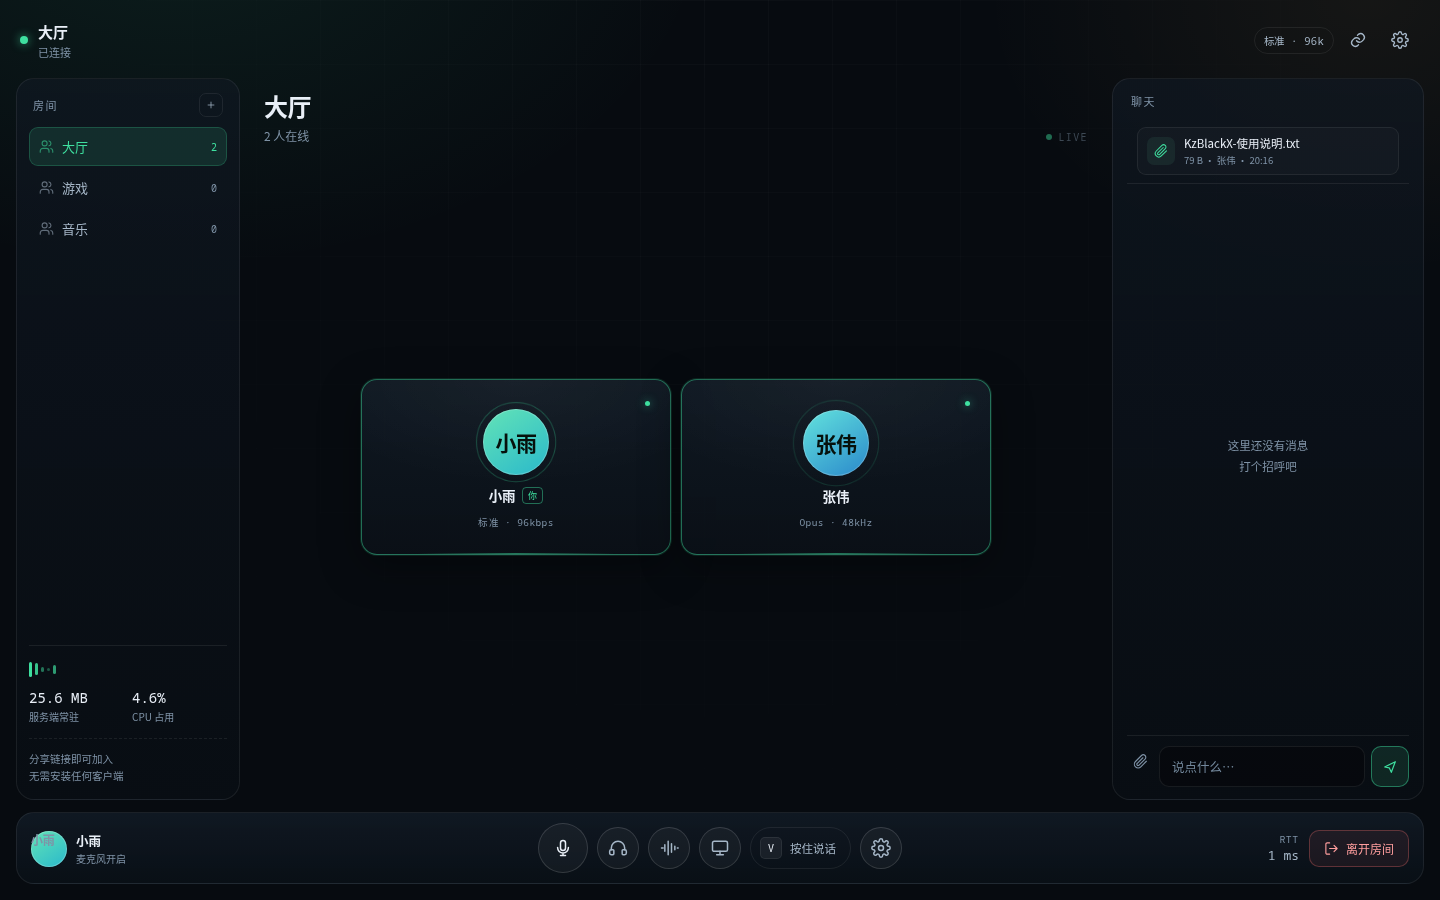
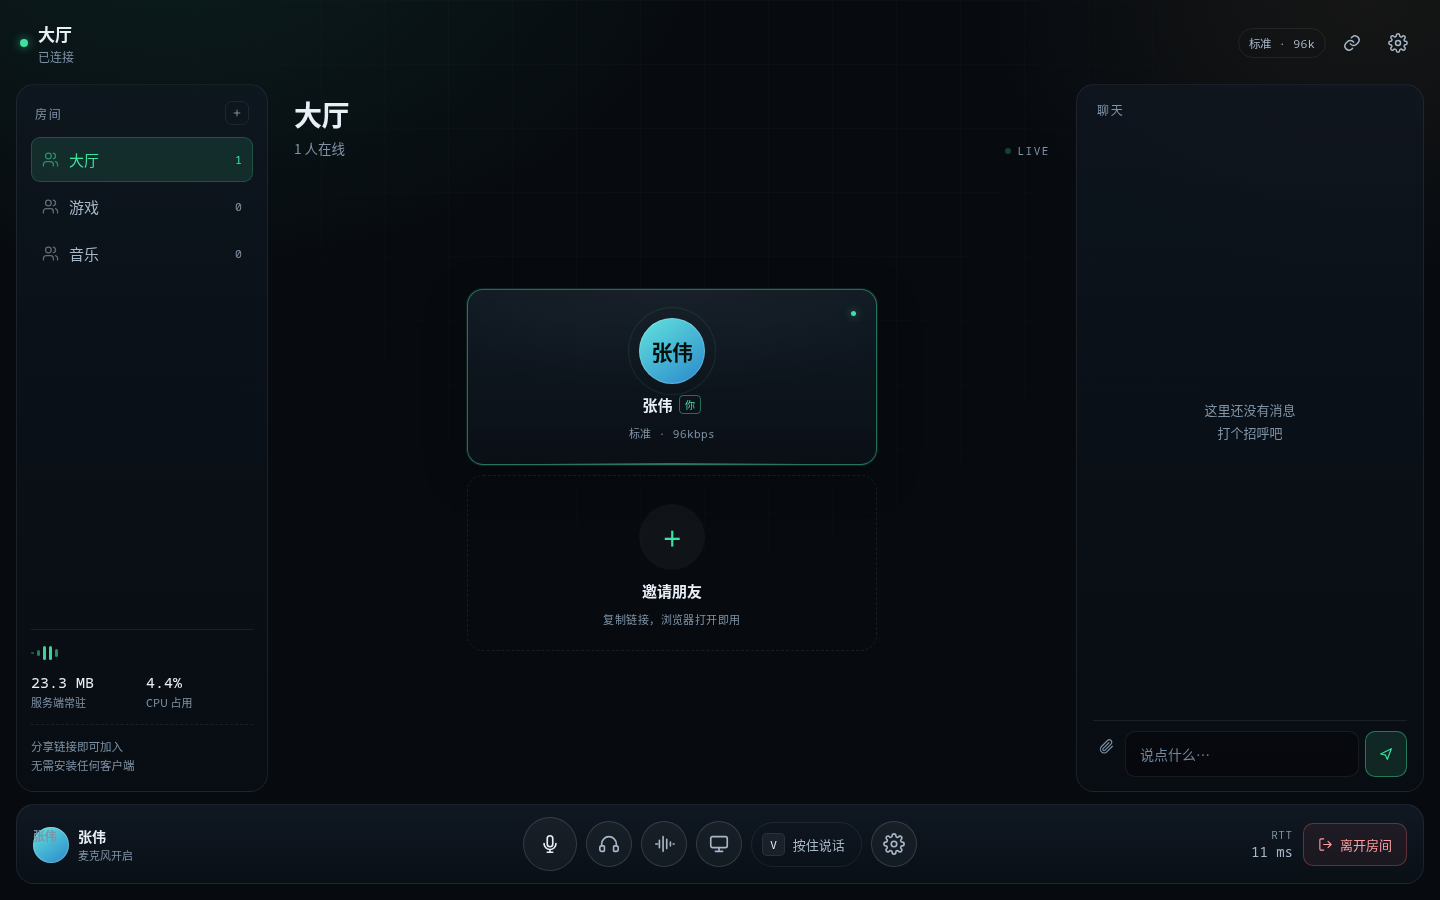
style: enlarge global typography for readability

diff --git a/web/styles.css b/web/styles.css
@@ -1259,3 +1259,89 @@ h1, h2, h3, h4, p { margin: 0; }
   #screen-modal .modal-body { padding: 14px 18px 18px; }
   #screen-modal .modal-foot { padding: 14px 18px; }
 }
+
+/* ---------------- Readability pass ---------------- */
+.field > .label { font-size: 13.5px; }
+.auth-card { width: min(500px, 100%); padding: 30px; }
+.auth-card h2 { font-size: 28px; }
+.auth-sub { font-size: 14px; line-height: 1.7; }
+.auth-form { margin-top: 22px; gap: 18px; }
+.auth-form input { font-size: 15px; padding: 13px 15px; }
+.auth-form .btn { font-size: 15.5px; padding: 14px 18px; }
+.auth-foot { font-size: 12px; gap: 8px 18px; margin-top: 22px; }
+.auth-head .server-name { font-size: 13px; }
+.pill { font-size: 12px; padding: 6px 11px; }
+.form-note { font-size: 13px; line-height: 1.6; }
+.brand-mini b { font-size: 14px; }
+.brand-mini span { font-size: 8.5px; letter-spacing: .18em; }
+.modal-head h3 { font-size: 20px; }
+.modal-head p { font-size: 12px; }
+.hint { font-size: 12.5px; }
+.modal-body .form-note { font-size: 13px; }
+.btn { font-size: 14.5px; }
+.btn.tiny { font-size: 12.5px; }
+input, select { font-size: 14.5px; }
+
+@media (max-width: 560px) {
+  .auth-card { padding: 22px; width: 100%; }
+  .auth-card h2 { font-size: 25px; }
+  .auth-sub { font-size: 13px; }
+  .auth-form { gap: 15px; }
+}
+
+@media (min-width: 901px) {
+  .topbar { height: 58px; }
+  .room-body { grid-template-columns: 252px minmax(0, 1fr) 348px; gap: 14px; }
+  .room-title b { font-size: 17px; }
+  .room-title span:not(.conn-dot) { font-size: 12px; }
+  .quality-badge { font-size: 11.5px; padding: 6px 10px; }
+  .icon-btn { width: 40px; height: 40px; }
+  .icon-btn svg { width: 20px; height: 20px; }
+  .channels { padding: 16px 14px; }
+  .chat { padding: 16px 16px 14px; }
+  .panel-head { font-size: 12px; padding-bottom: 12px; }
+  .channel { font-size: 15px; padding: 11px 10px; gap: 10px; }
+  .channel svg { width: 17px; height: 17px; }
+  .channel .n { font-size: 11.5px; }
+  .channels-note { font-size: 11.5px; line-height: 1.65; }
+  .server-mini strong { font-size: 15px; }
+  .server-mini span { font-size: 11px; }
+  .stage-head h2 { font-size: 28px; }
+  .stage-head p { font-size: 13.5px; }
+  .stage-live { font-size: 11px; }
+  .peer-grid { grid-template-columns: repeat(auto-fill, minmax(200px, 1fr)); }
+  .peer-grid[data-count="1"] { grid-template-columns: minmax(0, 410px); }
+  .peer-grid[data-count="2"] { grid-template-columns: repeat(2, minmax(0, 340px)); }
+  .peer-grid[data-count="3"] { grid-template-columns: repeat(3, minmax(0, 300px)); }
+  .peer-grid[data-count="4"] { grid-template-columns: repeat(2, minmax(0, 330px)); }
+  .tile-name { font-size: 15px; }
+  .tile-meta { font-size: 11px; }
+  .badge-you { font-size: 10px; }
+  .chat-empty { font-size: 13px; }
+  .msg-head b { font-size: 13px; }
+  .msg-head time { font-size: 10.5px; }
+  .msg p { font-size: 14px; line-height: 1.6; }
+  .msg.system p { font-size: 12px; }
+  .chat-form input { font-size: 14px; padding: 12px 14px; }
+  .chat-form button { width: 42px; }
+  .file-card .fm b { font-size: 13px; }
+  .file-card .fm small { font-size: 10.5px; }
+  .self-mini b { font-size: 14px; }
+  .self-mini span { font-size: 11px; }
+  .round { width: 54px; height: 54px; }
+  .round svg { width: 22px; height: 22px; }
+  .round.small { width: 46px; height: 46px; }
+  .ptt-btn { font-size: 13px; padding: 10px 16px 10px 10px; }
+  .ptt-btn kbd { font-size: 11px; }
+  .netstat span { font-size: 10px; }
+  .netstat b { font-size: 14px; }
+  .controls { padding: 12px 16px; gap: 14px; }
+  .leave { font-size: 13px; padding: 11px 14px; }
+}
+
+@media (min-width: 901px) and (max-width: 1080px) {
+  .room-body { grid-template-columns: 220px minmax(0, 1fr) 300px; }
+  .round { width: 50px; height: 50px; }
+  .round.small { width: 42px; height: 42px; }
+}
+.auth-form .btn.primary { justify-content: center; }
